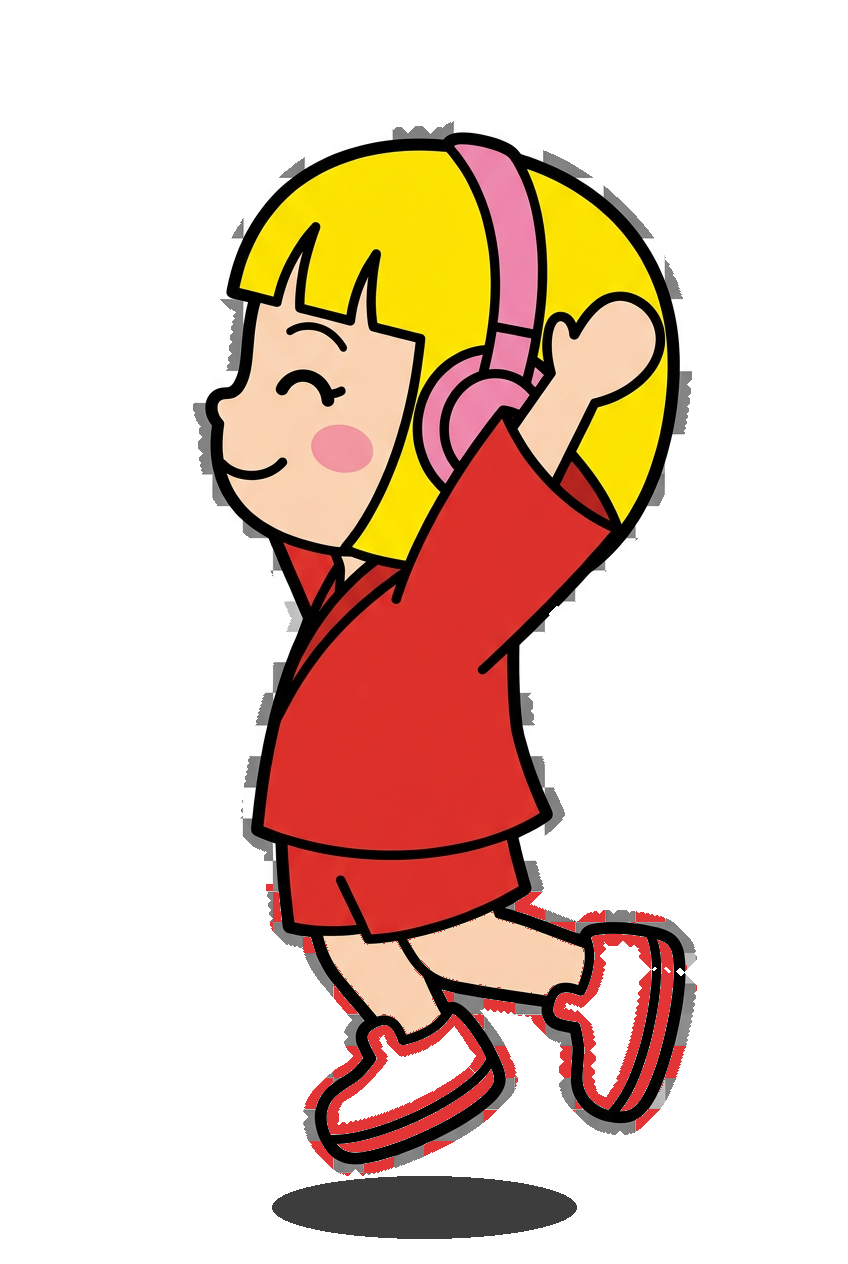
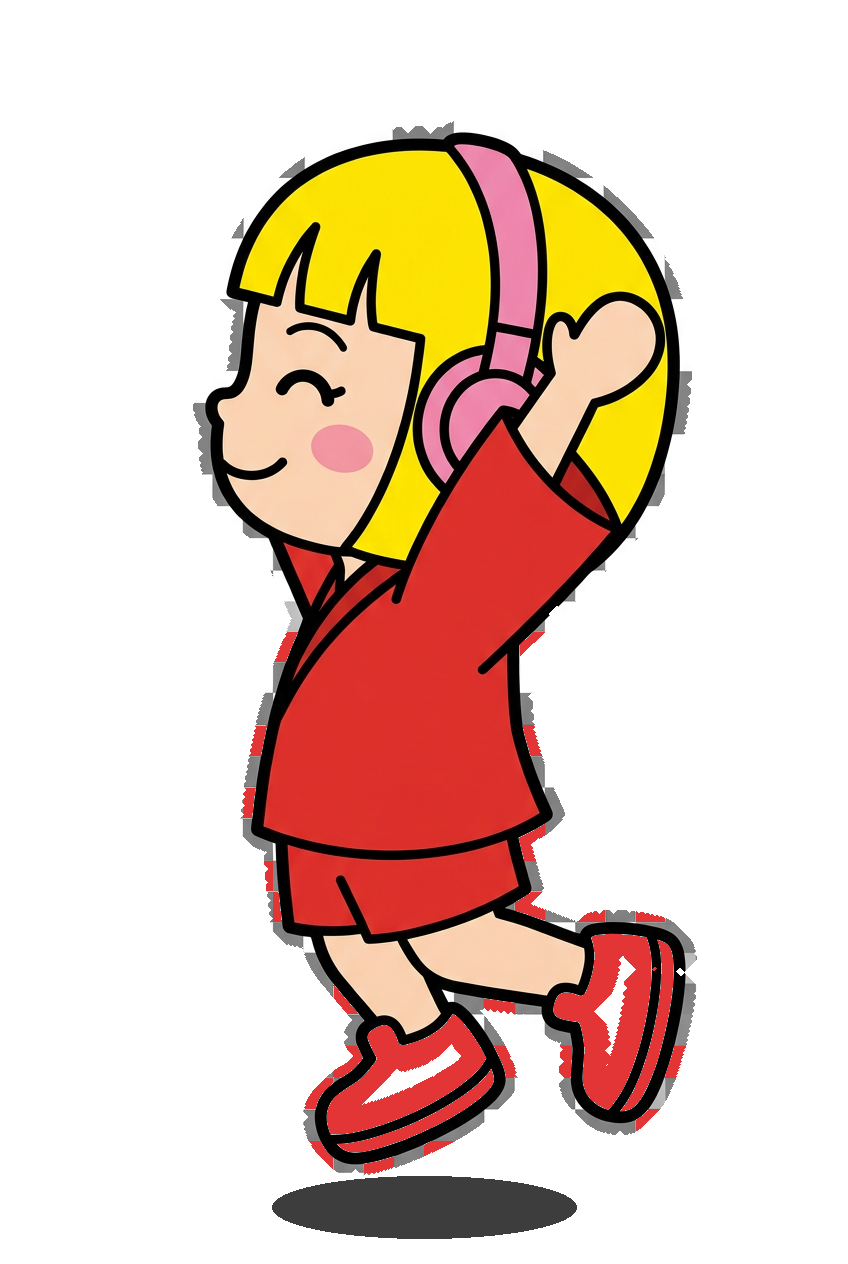
fix(scripts): 大連結成分 + 周辺ゾーンで靴を完全特定 (codex review v4)
codex review 2 周目 Medium 指摘:
> 操作 1 の白→赤置換が y >= H*0.70 全体に効くため、下腿付近の白系ピクセルも拾う
+ side-run / jump pose で靴が範囲外にあると塗り漏れる

修正 (red-v4):
- アプローチを「Y範囲指定」から「**白マスクの大連結成分 + 下半分**」に変更
  - scipy.ndimage.label で白マスクを連結成分化
  - サイズ ≥ 200 px の成分のみ採用 (顔/目/装飾の小さなハイライトを保護)
  - y >= H*0.50 (下半分) フィルタで上半身の白を除外
- 穴埋めは「白マスクから 15px 膨張した shoe_zone」内のみ
  - run/jump pose で靴が中央寄りでも追従
  - 脚 (肌色) や短パン (赤) の透明領域は zone 外で誤検出しない
- bbc55bf (PR #15、red 適用前) から sprite を取り直して v4 を適用
  - red-v1〜v3 で塗ってしまった脚境界の赤を完全クリア

検証:
- npm run typecheck PASS
- npm run build PASS
- 全 14 sprite で changed_px 14k-32k (大幅増 = 全靴を確実に検出)
- 目視確認: front-idle / side-run / jump で両足の靴が完全な赤色 +
  脚はオリジナル肌色 + ふくらはぎ周辺ギザギザなし

diff --git a/scripts/fix-sprites.py b/scripts/fix-sprites.py
@@ -150,57 +150,62 @@ def colorize_shoes_red(path: str) -> tuple[int, str]:
     from scipy.ndimage import binary_fill_holes
     from PIL import PngImagePlugin
 
+    import numpy as np
+    from scipy.ndimage import binary_fill_holes, binary_dilation, label
+
     img = Image.open(path).convert("RGBA")
     info = img.info or {}
-    if info.get("tdk-shoe-color") == "red-v3":
+    if info.get("tdk-shoe-color") == "red-v4":
         return 0, "skipped"
 
     W, H = img.size
-    y_start_white = int(H * 0.70)  # 操作 1: 下から 30% で白→赤置換 (短パンの裾を含むが赤は条件不一致で保持)
-    y_start_holes = int(H * 0.88)  # 操作 2: 下から 12% に絞って穴埋め (靴のみ、脚/短パン内の透明領域を誤検出しない)
-
     arr = np.array(img)  # shape: (H, W, 4)
+    alpha = arr[:, :, 3]
 
-    # 操作 1: 下端 30% 領域内の白いピクセルを赤に置換
-    region_white = arr[y_start_white:H, :, :]
-    white_mask = (
-        (region_white[:, :, 3] > 200)
-        & (region_white[:, :, 0] >= 200)
-        & (region_white[:, :, 1] >= 200)
-        & (region_white[:, :, 2] >= 200)
+    # 全画素に対する白マスク (alpha>200 + RGB all >= 200)
+    white_mask_all = (
+        (alpha > 200)
+        & (arr[:, :, 0] >= 200)
+        & (arr[:, :, 1] >= 200)
+        & (arr[:, :, 2] >= 200)
     )
 
-    # 操作 2: 下端 12% (靴帯) 内のアウトライン内側の透明穴を赤で塗りつぶし
-    region_holes = arr[y_start_holes:H, :, :]
-    opaque_mask = region_holes[:, :, 3] > 128
-    filled = binary_fill_holes(opaque_mask)
-    if filled is None:
-        filled = opaque_mask
-    hole_mask_h = filled & ~opaque_mask  # 穴 = 「埋めた後不透明」かつ「元は透明」
+    # 操作 1: 大きい白い連結成分 (= 靴) のみ赤化、かつ画像下半分に位置するもの。
+    # → 顔/目/ヘッドフォン等の小さな白いハイライト (連結成分が小さい) は保護
+    # → 上半身の白いアクセントも保護 (下半分 H*0.50 を境界に)
+    labeled, _num = label(white_mask_all)
+    sizes = np.bincount(labeled.ravel())
+    sizes[0] = 0  # 背景 (label=0) は対象外
+    large_labels = np.where(sizes >= 200)[0]
+    white_mask_large = np.isin(labeled, large_labels) & white_mask_all
+    y_indices = np.indices(white_mask_large.shape)[0]
+    white_mask_target = white_mask_large & (y_indices >= int(H * 0.50))
 
-    # 適用 (操作 1)
-    region_white[:, :, 0] = np.where(white_mask, 227, region_white[:, :, 0])
-    region_white[:, :, 1] = np.where(white_mask, 53, region_white[:, :, 1])
-    region_white[:, :, 2] = np.where(white_mask, 53, region_white[:, :, 2])
-    region_white[:, :, 3] = np.where(white_mask, 255, region_white[:, :, 3])
-    arr[y_start_white:H, :, :] = region_white
+    # 操作 2: 「靴ゾーン」 = white_mask_target を 15px 膨張させた範囲内のみ穴埋め。
+    # → run/jump で靴が画像中央寄りにあっても確実に追従、脚や短パン領域は除外
+    shoe_zone = binary_dilation(white_mask_target, iterations=15)
+    opaque_full = alpha > 128
+    opaque_in_zone = opaque_full & shoe_zone
+    filled_zone = binary_fill_holes(opaque_in_zone)
+    if filled_zone is None:
+        filled_zone = opaque_in_zone
+    hole_mask = filled_zone & ~opaque_full & shoe_zone
 
-    # 適用 (操作 2、穴埋めは alpha=0 → 255 + 赤)
-    region_holes2 = arr[y_start_holes:H, :, :]  # 操作 1 適用後の最新 view
-    region_holes2[:, :, 0] = np.where(hole_mask_h, 227, region_holes2[:, :, 0])
-    region_holes2[:, :, 1] = np.where(hole_mask_h, 53, region_holes2[:, :, 1])
-    region_holes2[:, :, 2] = np.where(hole_mask_h, 53, region_holes2[:, :, 2])
-    region_holes2[:, :, 3] = np.where(hole_mask_h, 255, region_holes2[:, :, 3])
-    arr[y_start_holes:H, :, :] = region_holes2
+    target_mask = white_mask_target | hole_mask
+    changed = int(target_mask.sum())
 
-    changed = int(white_mask.sum()) + int(hole_mask_h.sum())
+    # 赤 (#e33535) で塗りつぶし。穴 (元 alpha=0) は alpha=255 に
+    arr[:, :, 0] = np.where(target_mask, 227, arr[:, :, 0])
+    arr[:, :, 1] = np.where(target_mask, 53, arr[:, :, 1])
+    arr[:, :, 2] = np.where(target_mask, 53, arr[:, :, 2])
+    arr[:, :, 3] = np.where(target_mask, 255, arr[:, :, 3])
 
     new_img = Image.fromarray(arr, "RGBA")
 
     pnginfo = PngImagePlugin.PngInfo()
     if info.get("tdk-foot-shadow") == "v1":
         pnginfo.add_text("tdk-foot-shadow", "v1")
-    pnginfo.add_text("tdk-shoe-color", "red-v3")
+    pnginfo.add_text("tdk-shoe-color", "red-v4")
     new_img.save(path, "PNG", pnginfo=pnginfo)
     return changed, "applied"
 
